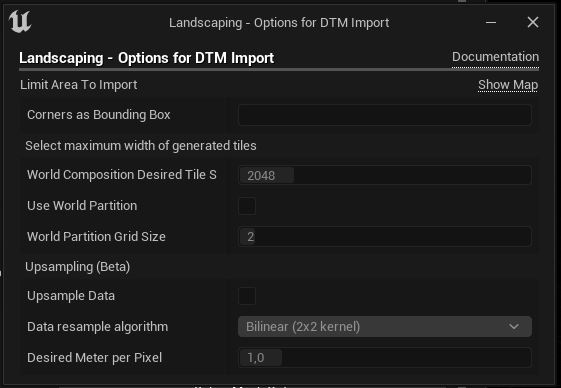
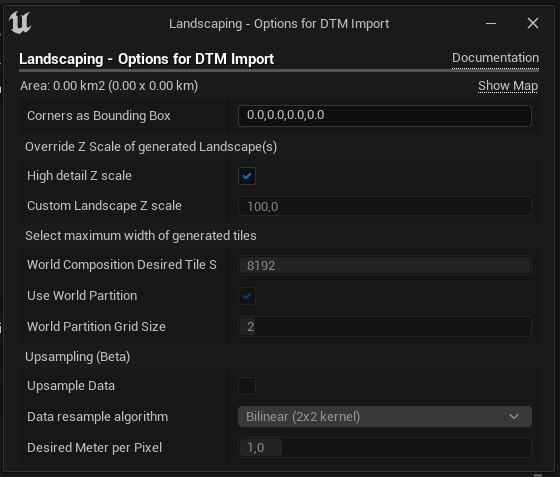
updated docs for version 5.2

diff --git a/docs/heights.md b/docs/heights.md
@@ -8,10 +8,10 @@ In order to create a tiled landscape, you can choose one or multiple files in th
 Depending on the [Max Desired Tile Size](#max-desired-tile-size), the tiles for the landscape will be created on the fly. In UE5 it is possible to choose [World Partition](#world-partition) and specify the grid size.  
 > A tiled landscape can be created from a single file or from multiple files
 
-The controlling factor is the [Max Desired Tile Size](#max-desired-tile-size).  
+The controlling factor is the [Max Desired Tile Size](#max-desired-tile-size). Please note: for `World Partition`, a different value will control the single Landscape Size -> see [Settings](settings.md?id=world-partition-max-landscape-size)
 There is only two thing to consider:
 > The file size of a single file can be 2 GB max.  
-> Your system memory must keep up with the size of the landscape. About 20 GB RAM are needed per 1000 km². This is what Unreal Engine needs. The plugin itself does not need much memory.
+> Your system memory must keep up with the size of the landscape. About 20 GB RAM are needed per 1000 km² (World Partition needs even more). This is what Unreal Engine needs. The plugin itself does not need much memory.
 
 ## Options
 
@@ -33,19 +33,29 @@ Select edit on the toolbar on the right side and drag the rectangle corners unti
 After clicking save, the map centers on the new area. Select the coordinates in the adress bar of the browser and copy them (Ctrl+C):
 ![Import DTM files](_media/ue4_landscaping_dtm_map3.jpg)
 
-Back in Unreal Engine Editor paste the coordinates (Ctrl+V) in the `Corners as BBox` text input and hit `Enter`:
+Back in Unreal Engine Editor paste the coordinates (Ctrl+V) in the `Corners as Bounding Box` text input and hit `Enter`:
 ![Limit Import Area](_media/ue4_landscaping_dtm_limit_area.jpg)
 
 The info text should now show the new extent of the area and only this part of the heightdata will be imported.
+
+## Override Z Scale of generated Landscape(s)
+
+### High Detail Z Scale
+
+The vertical scale will be calculated automatically to perserve the most detail, using the maximum available Unreal Engine Landscape vertical resolution. Defaults to `true`.
+
+### Custom Landscape Z Scale
+
+Use this for areas with low altitude difference to correct wrong slope calculation of Marketplace Landscape Materials (like Brushify or PLE). Defaults to `100`.
 
 ## Fill the gaps (depricated, not available since release 4.0)
 
 Due to reprojecting the import data steep edges will appear on the outmost borders of the landscape or open world if import area is not limited. To prevent this and if limiting the import area is no option for you, auxiliary files can be provided. They should be of the same resolution and encompass the area which you want to import.
 Try it out with this corresponding set of files for the [examples](get-started.md?id=import-heightmap) from `Get Started`: [AuxiliaryExample](https://cloud.ludicdrive.com/s/Mfx0NyUsZE2PKXQ/download). Download and unzip the file, and select all files in the `Fill the gaps` file selection dialog.
 
-### World Composition Max Desired Tile Size
+### Max Desired Tile Size
 
-Tiles will have this width max. The unit here is meter. If the tile size is bigger than the extents, only a single landscape (not a world composition) is imported.
+Tiles will have this width max. The unit here is meter. If the tile size is bigger than the extents of the file (geotiff, etc.), only a single landscape (not a world composition) is imported. Please note: for World Partition, a different value will control the single Landscape Size -> see [Settings](settings.md?id=world-partition-max-landscape-size)
 
 ### Use World Partition
 

diff --git a/docs/props.md b/docs/props.md
@@ -7,7 +7,6 @@ Landscaping let you create rivers, streets, railroads etc. from Shapefiles with 
 ## Generate from Mesh or Blueprint
 
 > If you are working with World Composition: please __unload__ all tiles before proceeding  
-> If you are working with World Partition: please __load__ all grid cells before proceeding  
 
 1) `Select` a Shapefile  
 
@@ -39,7 +38,6 @@ Depending on what is selected in the dropdown, there are 3 different dialogs, bu
 5) `Crop to bounds` controls if the shapefiles should be cropped to the bounds of the Landscape or World Composition or World Partition. This is especially relevant when importing shapefiles independently without prior import of DTM with the Landscaping plugin. If the Landscape is imported through the plugin, the option defaults to true and cannot be changed.
 6) With `OSM feature class` you can control, what type of features will be instatiated with the Blueprint or Spline when using shapefiles from geofabrik.de. A river should have another Blueprint than a stream and a path another Blueprint than a highway. This dropdown let you select the apropriate feature class of the shape for the Blueprint which should be instantiated on the Landscape. On other shapefiles than from geofabrik.de this will default to `ALL`.
 
-> Please make sure to __unload__ all Levels of a World Composition (except the Persistent Level) in the Unreal Engine `Levels` tab before hitting `Import`.  
-> Unreal Engine 5 World Partition: __Load__ all World Partition grid cells before hitting `Import`.  
+> Please make sure to __unload__ all Levels of a World Composition (UE4) (except the Persistent Level) in the Unreal Engine `Levels` tab before hitting `Import`.  
 
 7) Hit `Import`

diff --git a/docs/troubleshooting.md b/docs/troubleshooting.md
@@ -21,14 +21,14 @@ When changing levels, the plugin may not detect the new World which is neccessar
 ## Edges on the outmost border
 
 Due to the transformation of the input data, on areas, where no data is found the height is set to 0. Therefore, steep edges on outmost borders of the Landscape or World Composition occur. Normally, this is not a problem and does not have any perfomance impacts.  
-If this is a problem there are 2 options to solve this:
+If one wants to get rid of the steep edges anyway, there are 2 options to solve this:
 
-- The steep edges can easily be fixed within the native Unreal Engine Landscape Mode Sculpting Tools
-- Use one of the options in the [DTM Import Options](heights.md?id=options) dialog
+- The steep edges can be fixed within the native Unreal Engine Landscape Mode Sculpting Tools
+- Use the `Corners as Bounding Box` option in the [DTM Import Options](heights.md?id=options) dialog (Choose area on the map)
 
-## Missing Tiles
+## Crash when not saving the level on promt
 
-When importing a Tiled Landscape you will maybe notice, that there are a couple of the enumerated Tiles missing. __Good news__: they are not really missing. They just did have no data and where therefore not imported at all. If you need flat tiles with all heights set to 0, you can easily add them within World Composition.
+This is an Unreal Engine bug which will hopefully be resolved in 5.1 - see also [https://issues.unrealengine.com/issue/UE-143891](https://issues.unrealengine.com/issue/UE-143891) - Right now the solution is to save the level when prompted.
 
 ## Crashes
 

diff --git a/docs/landcover.md b/docs/landcover.md
@@ -9,7 +9,6 @@ Landscaping is designed to work with OpenStreetMap Data Extracts from Geofabrik.
 ## Importing Shapefiles
 
 > If you are working with World Composition: please __unload__ all tiles before proceeding  
-> If you are working with World Partition: please __load__ all grid cells before proceeding
 
 When clicking on the `Open` button next to Landscape Material Settings a new window pops up. Hit the `Select` button and choose `gis_osm_landuse_a_free_1.shp` or multiple files (see [Get Data](get-data.md?id=vector-data)) from the extracted files. It is possible to select several Shapefiles at once. It may take a few seconds until the file is read. After that, choose the Landscape Material in the next step.
 

diff --git a/docs/changelog.md b/docs/changelog.md
@@ -2,6 +2,12 @@
 
 Changelog for the documentation see: [The Landscaping Docs on Github](https://github.com/jorop/landscaping-docs)
 
+## Version 5.2
+
+- feature: change Landscape Material's default paint layer on DTM import
+- feature: override z scale of generated landscape on import
+- bugfix: LandscapeVecterInterface stopped after first linestring was created  
+
 ## Version 5.1
 
 - feature: settings for World Partition Max Landscape Size
